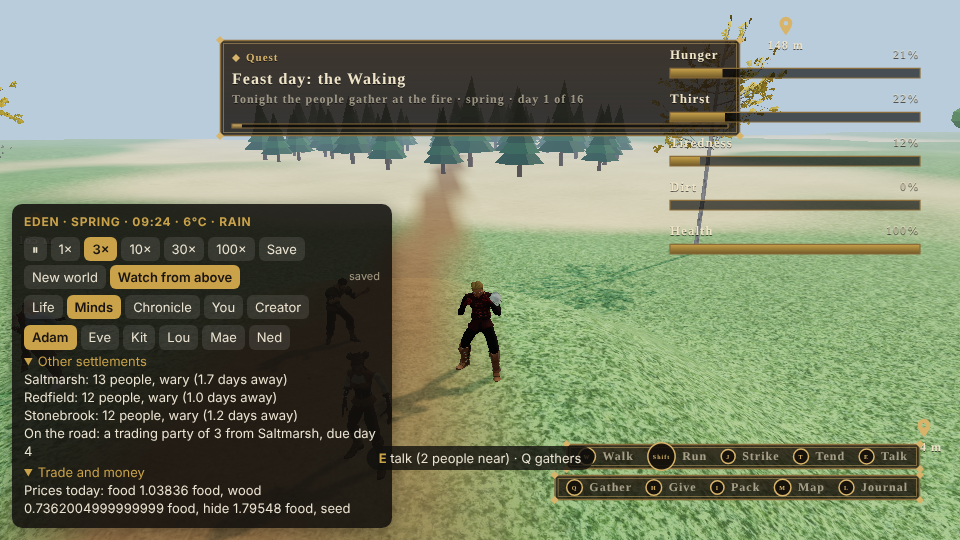
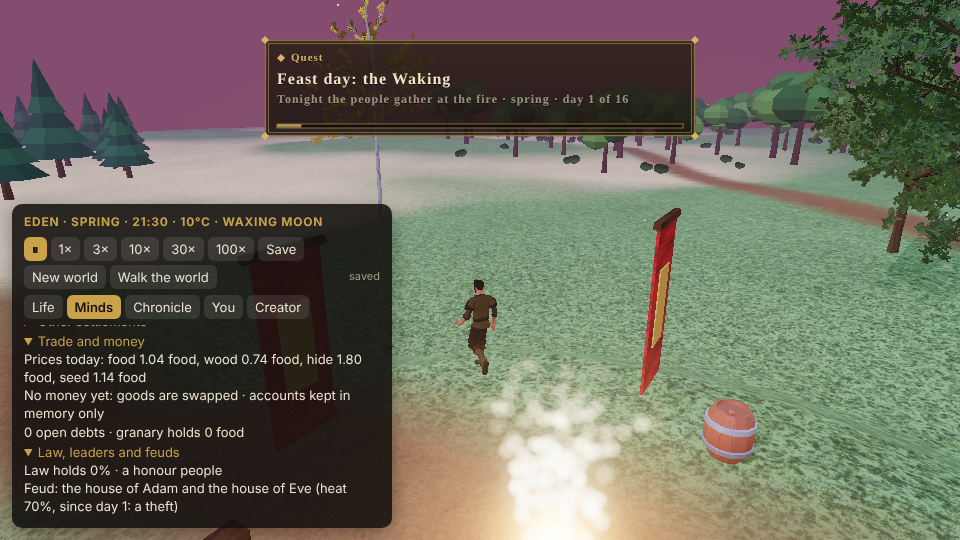
Eden presentation: faces, growth, scars, rowing and swimming, the Walker's look and deeds, settlements and parties, crafted objects, feast and HUD; water no longer falls
Claude-Session: https://claude.ai/code/session_01JJ8QP2ivcjg19nvbwrehr7

diff --git a/apps/editor/src/editor/app/edenPresent.ts b/apps/editor/src/editor/app/edenPresent.ts
@@ -281,7 +281,7 @@ export function createPresent(C: Ctx, api: PresentApi): Present {
       now.add(p.id);
       const [, outcome, what, , sx, sz] = tech.route.id.split(":");
       let floor = api.waterLevel + 0.25;
-      if (outcome === "cap") floor = api.waterLevel - 0.35;
+      if (outcome === "cap") floor = api.waterLevel - 0.12; // face down at the surface
       else if (what === "bridge") {
         const b = [...bridgeDeck.values()].find((d) => Math.hypot(d.x0 - Number(sx), d.z0 - Number(sz)) < 3) ?? [...bridgeDeck.values()][0];
         floor = b ? b.deck : api.waterLevel + 0.7;
@@ -336,18 +336,23 @@ export function createPresent(C: Ctx, api: PresentApi): Present {
     hud("Calendar", `${hudNow.title}\n${hudNow.detail}`);
     hudValue("Calendar", hudNow.progress);
     const on = feastTonight(w);
-    if (on && !lastFeast.on) {
+    if (on) {
       const spot = festivalSpot(w);
-      put("feast-fire", "Festival Fire", spot.x, spot.z);
-      [[4, 0], [-4, 0], [0, 4], [0, -4]].forEach(([dx, dz], i) => put(`feast-banner-${i}`, "Settlement Banner", spot.x + dx!, spot.z + dz!));
-      put("feast-drum", "Drum", spot.x + 2.4, spot.z + 1.4);
-      put("feast-flute", "Flute", spot.x - 2.2, spot.z + 1.2);
-      if (lastFeast.noticed !== Math.floor((w.clock ?? 0) / 1440)) {
+      const at = placed.get("feast-fire");
+      // Lit where the people keep it; if the camp's place moves a long way (people moved camp), it is lit again there.
+      if (!at || Math.hypot(at.x - spot.x, at.z - spot.z) > 6) {
+        for (const id of [...placed.keys()]) if (id.startsWith("feast-")) drop(id);
+        put("feast-fire", "Festival Fire", spot.x, spot.z);
+        [[4, 0], [-4, 0], [0, 4], [0, -4]].forEach(([dx, dz], i) => put(`feast-banner-${i}`, "Settlement Banner", spot.x + dx!, spot.z + dz!));
+        put("feast-drum", "Drum", spot.x + 2.4, spot.z + 1.4);
+        put("feast-flute", "Flute", spot.x - 2.2, spot.z + 1.2);
+      }
+      if (!lastFeast.on && lastFeast.noticed !== Math.floor((w.clock ?? 0) / 1440)) {
         lastFeast.noticed = Math.floor((w.clock ?? 0) / 1440);
         hud("Notice", `${hudNow.title}\nThe people gather at the fire`);
         api.log(`${hudNow.title}. The people gather at the fire.`);
       }
-    } else if (!on && lastFeast.on) for (const id of [...placed.keys()]) if (id.startsWith("feast-")) drop(id);
+    } else if (lastFeast.on) for (const id of [...placed.keys()]) if (id.startsWith("feast-")) drop(id);
     lastFeast.on = on;
   }
 

diff --git a/apps/editor/src/editor/app/edenAgents.ts b/apps/editor/src/editor/app/edenAgents.ts
@@ -769,7 +769,8 @@ export function installEdenAgents(C: Ctx): void {
         const mo = personMotion(person, w, mem, held && held.until >= performance.now() ? held.pose : undefined);
         const walkingNow = !!intent && !intent.arrived;
         const style = walkStyle(person, w);
-        const pose = fast ? undefined : walkingNow ? style.pose : mo.pose;
+        const onWater = mo.pose === "row" || mo.pose === "swim"; // rowing and swimming are the whole body, moving or not
+        const pose = fast ? undefined : onWater ? mo.pose : walkingNow ? style.pose : mo.pose;
         const gaze = fast ? undefined : gazeOf(person, w);
         const faceTo = (x: number, z: number) => {
           const me = at >= 0 ? C.objects[at] : undefined;

diff --git a/docs/changelog/F152.md b/docs/changelog/F152.md
@@ -1,0 +1,27 @@
+# F152: Eden presentation, so the simulation of phases A to K is visible in the running game
+
+Host and scene only (`apps/editor/src/editor/app/edenPresent.ts`, `apps/editor/src/eden/present.ts` for the parts tests can check, `tools/eden/build_eden.ts`, the Lua scripts). Nothing in the simulation's behaviour changed. Screenshots from the running game (headless Chromium, software GL) are in `docs/eden-screenshots/F152_*.png`; the browser test is `tests/browser/eden_present.cjs` (in CI beside `eden.cjs`); unit tests are `apps/editor/tests/edenPresent.test.ts` (16).
+
+## Seen in the running game
+
+- **A bug found first: the water fell.** The lake and river water boxes had their body and collider deleted so people could wade, and with no body at all the runtime let them fall to the terrain: the lake water sat at -3.55 m, on the lake bed, 3 m under the pier and the boat. That is why K's shots showed the boat and pier high and dry (`minds_tab.png`, `lake_*.png`). The water now keeps a fixed body and no collider and sits at -0.4 (`F152_lake_water_fixed.png`, and the water test in `eden_present.cjs` fails on the old scene). The same trap would have dropped the new made-thing prefabs, so they carry a fixed body.
+- **I4 faces and blinks** (`F152_face_open/blink/brows_raised/brows_lowered.png`). The models have no lids, so a blink is the eyes taken away for a moment (the skin shows); each person blinks on their own beat, slowly and half-shut when tired, shut in sleep. Brows go up for fear and gladness and down for anger (the brow is one piece: up and down only, no inner tilt for grief, which `faceOf` computes but the model cannot show).
+- **I4 lying down to sleep** (`F152_dirt_scars_sleep.png`, Eve lying on the ground at the right). This was already in `poses.ts`; it is now seen.
+- **I4 swimming and rowing** (`F152_water_row_swim_bridge.png`): two new whole-body poses, `row` (seated, pulling two oars) and `swim` (face down at the surface). A person on a boat or raft rows and the boat goes with them; one whose boat went over swims. The body is held at the water (`eden_float_<id>` in the Lua) instead of walking the lake bed. Staged with the mind's own state (`tech.afloat` and `route`) set by hand, not by a person choosing to cross.
+- **I4 visible wear and dirt** (`F152_dirt_scar_closeup.png`): dirt, and a new `wear` (long filth, lice, age) that fades clothes. A bug in the old code was found: it skipped every mesh named "Eyebrows", and each worn garment is a mesh with that name, so clothes were never tinted; only skin and hair were. Fixed. Dirt on dark clothes is subtle.
+- **I3 smooth growth** (`F152_growth_ages.png`: ages 0.4, 1.2, 2.5, 3.8, 20 and 60 Eden years). One body per person for their whole life; the host scales the model by `heightCm` from `body.ts` (broader or slighter by build, shrinking in old age), easing a little each look, instead of swapping child, youth and adult prefabs. The test checks no step of 0.05 Eden year grows by more than 0.04 of the model's height.
+- **I3 limp and scars** (`F152_dirt_scar_closeup.png`, the person at the left has a scar on the cheek and one on the arm; a person born with a lame leg now walks with the limp posture and at 0.8 pace, which only a wound did before). Scars are small dark marks on the bones; seen on the cheek, not checked on every place.
+- **I5 the Walker** (`F152_walker_you_tab.png`): new **You** tab to choose height, build, skin, hair and tunic (a bad value is refused with its reason, shown in red); the avatar is drawn at that height and breadth, with the tunic and hair colour put on the hunter's kit (Lua `world.wear`) and skin tone as a tint; needs bars (hunger, thirst, tiredness, dirt, health) as the UI kit's Resource bar widgets at the top right and a Key hints widget at the bottom right; the pace from `walkerSpeed` is set on the hunter's CharacterController walk and sprint speeds. J, K, F and the mouse button strike whoever is beside you and T tends them (the creator's own `heal`), each calling `walkerDeed`; H giving calls it as "gave". Tested: strike lowers trust and hurts, tend raises it, the deeds are kept. **Pace was not measured on the avatar**: software GL runs about 0.3 frames a second so walking speed cannot be timed here; the call into the controller is made and checked only as far as the entity having one.
+- **I1 settlements, parties and raiders** (`F152_settlement_party_a.png`): each settlement stands on the edge of the land in its own direction (huts by size, a fire, a banner that is red when hostile, a ruin when abandoned, a pin with its name and distance through the UI kit's Waypoints widget). A trading party, raiders or migrants on their last 150 sim seconds walk in as figures (raiders in red) toward the camp, with a notice when they appear. They are placed on the edge of the land, not at the settlement's true distance (2.4 to 4.2 km).
+- **J5 bridge and boat** (`F152_bridge_crossing.png`, `F152_water_row_swim_bridge.png`): a bridge is a plank laid from shore to shore, as long as the planks laid, a person on it is held at the deck. The rower and swimmer are set by hand as said above, so a person was not seen *deciding* to cross in the running game; the mind-side test of F147 still covers the decision.
+- **J6 the 18 crafted kinds, plus bridge and granary** (`F152_crafted_objects.png`): prefabs for pot, spit, oven, kiln, loom, quern, ball, swing, flute, drum, field, channel, pen, dog bed, well, hive, boat, raft, bridge and granary; a unit test checks every kind a craft makes has a prefab in the scene. **Reused models** from the kit: bucket (pot), rock-medium (oven), anvil-forge (kiln), rock-stone-01 (quern), barrel-large (drum), fence-picket (pen), bedroll (dog bed), planter (well), rowboat-small (boat), farmhouse (granary). **Stand-ins not made for the job**: weapon-rack for the spit, market-stall for the loom, paifang-gate for the swing. **Plain boxes**: ball, flute, field, channel, hive, raft, bridge. In the shot, several are small and not easy to tell apart; the granary was moved out of frame because it fills it.
+- **G3 festival** (`F152_festival_evening.png`, `F152_night_fire_lighting.png`): on the evening of a feast day a big fire, four banners, a drum and a flute are set at the camp's place, with people gathered there (the mind's own bias does the gathering; in the shot two people stand at it), and taken away at 22:00. The calendar is the UI kit's Objective widget (the next feast and in how many days, or "Feast day: the Waking, tonight the people gather at the fire") and a Notification widget when the feast begins; no loose text lines. Fires flicker. Only two people gathered in the shots; a crowd was not shown. The dusk shot is dusk, not full night.
+- **The layers in the Minds tab** (`F152_minds_layers.png`): sections for the other settlements (and parties on the road), trade and money (prices, money, ledger, market, caravan, debts, granary, ventures), law, leaders and feuds (law strength, ethos, leaders, laws, taboos, cases, feuds, alliances, schisms, wars) and the feasts. The feud in the shot was added by hand to the world.
+
+## Not done, said plainly
+
+- Not seen: the Walker's pace measured in metres a second, a person choosing to row or to cross a bridge in a running game (staged by hand), a crowd at a festival, full night, a person with the limp *walking* (the shot is a still), the blink caught by chance (the shot holds the eyes shut), a scar anywhere but the cheek and arm, the "editable look" of ordinary people (only the Walker's is editable), the ground white with snow.
+- Brows move up and down only. No mouth or lids exist on the models.
+- Settlement figures walk straight in from the edge; they do not leave again, and what they do on arrival (trade, raid) is shown only by the mind's own notes.
+- The crafted prefabs have no animation or use sound; a pot is not seen being cooked in.
+- `npm test`: 601 passed before the new unit tests, which pass (16). The full browser suite was not run (no emsdk); `eden.cjs` and `eden_present.cjs` pass, the latter after the last build.

diff --git a/docs/IMPLEMENTATION_STATUS.md b/docs/IMPLEMENTATION_STATUS.md
@@ -148,6 +148,7 @@ What the engine can do, release by release. Each milestone has its own page in [
 | [F141](changelog/F141.md) | Eden phase D: love, pain, joy, meaning |
 | [F147](changelog/F147.md) | Eden phase J: many causes learned and revised, analogies, a 48-invention tool-chain space, farms, herding, metals, wheels, boats, bridges, shared projects, 18 crafted object kinds |
 | [F148](changelog/F148.md) | Eden phase K: seen in the running game, a browser test in CI, performance, the mind design document ([EDEN_MIND](EDEN_MIND.md)) |
+| [F152](changelog/F152.md) | Eden presentation: faces that blink, smooth growth, scars, a lying-down sleeper, rowing and swimming, the Walker's look, pace and deeds, other settlements and parties on the road, 20 crafted objects drawn, the feast and calendar in the HUD, the layers in the Minds tab; the lake water no longer falls to the lake bed |
 | [F144](changelog/F144.md) | Eden phase G: leaders, council, succession, laws and judging, rites, festivals, feuds, alliances, priests, schisms, splitting and drift |
 | [F143](changelog/F143.md) | Eden phase F: apprenticeship, oral tradition, access limits, false belief, curiosity by age, vocabulary drift |
 | [F142](changelog/F142.md) | Eden phase E: ownership, specialisation, fair and prices, money, debt, savings, wages, accounts |
